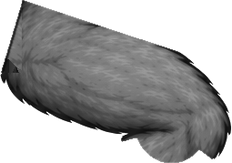
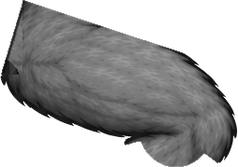
Beta: neue Figur – ganzes Bein je Stellung mit angeglichenen Längen
Oberschenkel gleichmässig auf eine Länge, Unterschenkel mit Fuss nur entlang des Schienbeins
gestaucht (Fuss bleibt gleich gross); Kniebeugung bei festem Fuss wieder stetig.

Claude-Session: https://claude.ai/code/session_01RzgDZiCUCCWMjrRSUqxzer

diff --git a/beta/sloth-rig.js b/beta/sloth-rig.js
@@ -18,7 +18,7 @@ const slothPartHref = (im) => (im.startsWith('v2') ? SLOTH_RIG2_BASE : SLOTH_RIG
 const SLOTH_PARTS = {"front_head":[510,53,696,293],"front_torso":[456,248,745,582],"front_uarm_l":[296,251,478,388],"front_uarm_r":[723,251,904,388],"front_farm_l":[51,288,294,400],"front_farm_r":[907,288,1150,400],"front_thigh_l":[439,516,582,697],"front_thigh_r":[629,516,773,697],"front_tail":[566,584,643,725],"front_calf_l":[444,678,569,866],"front_calf_r":[643,679,768,866],"back_head":[510,53,696,293],"back_torso":[455,247,745,622],"back_uarm_l":[300,251,478,388],"back_uarm_r":[723,251,900,388],"back_farm_l":[163,288,294,396],"back_farm_r":[906,288,1039,396],"back_elbow_l":[267,315,319,367],"back_elbow_r":[881,314,934,367],"back_grip_l":[195,606,314,813],"back_grip_r":[899,606,1018,813],"back_thigh_l":[439,567,571,697],"back_thigh_r":[641,562,773,697],"back_tail":[566,619,643,741],"back_calf_l":[444,678,569,866],"back_calf_r":[643,678,768,866],"pose_russian_a":[209,33,499,221],"pose_russian_b":[679,29,968,221],"pose_ninety":[339,246,498,434],"pose_frog_a":[252,454,543,618],"pose_frog_b":[697,485,1018,614],"pose_extrot_a":[405,634,537,875],"pose_extrot_b":[633,634,817,876],"eq_plate":[570,40,688,159],"eq_kettlebell":[870,40,962,159],"eq_dumbbell":[184,51,365,151],"eq_dhandle":[178,193,273,328],"eq_rope":[515,183,622,331],"eq_ring":[866,182,955,336],"eq_barend":[66,379,285,434],"eq_bench":[326,418,558,499],"eq_incline":[604,353,821,499],"eq_decline":[887,404,1118,499],"eq_cable":[92,506,252,840],"eq_dipstation":[436,631,630,840],"eq_rack":[890,553,1108,840],"eq_latpull":[68,33,226,248],"eq_legpress":[312,68,575,239],"eq_legext":[657,67,851,241],"eq_legcurl":[917,67,1143,241],"eq_butterfly":[69,324,232,543],"eq_abduction":[362,329,510,543],"eq_calfseated":[657,417,844,543],"eq_calfstanding":[931,326,1134,541],"eq_hyperext":[71,688,280,839],"eq_pullover":[465,604,649,840],"eq_tbar":[877,653,1112,840],"eq_abwheel":[181,58,443,250],"eq_jumprope":[776,42,989,261],"eq_ladder":[93,361,534,514],"eq_stepbox":[748,354,1035,538],"eq_band":[93,682,531,759],"eq_mat":[627,666,1152,759],"eq_stack":[303,516,390,652],"eq_calfframe":[499,491,711,666],"eq_calfpad":[807,531,920,627],"eq_dipbars":[292,735,461,819],"eq_nordic":[535,711,724,819],"eq_abductseat":[1008,654,1141,819],"eq_edge":[818,753,954,823],"front_face_neutral":[106,22,253,213],"front_face_effort":[106,22,251,213],"front_face_blink":[106,22,253,213],"front_face_yawn":[106,22,253,213],"side_face_neutral":[104,40,335,317],"side_face_effort":[103,40,334,317],"side_face_blink":[104,40,332,317],"side_torso":[458,53,699,568],"side_body":[458,220,692,568],"side_tail":[372,453,473,535],"side_uarm":[791,80,910,268],"side_uarm_far":[791,80,910,268],"side_elbow":[811,261,857,307],"side_elbow_far":[811,261,857,307],"side_farm":[770,320,959,400],"side_farm_far":[770,320,959,400],"side_hand":[990,449,1166,539],"side_hand_far":[990,449,1166,539],"side_thigh":[629,516,773,687],"side_thigh_far":[629,516,773,687],"side_knee":[721,652,768,700],"side_knee_far":[721,652,768,700],"side_calf":[1020,689,1180,854],"side_calf_far":[1020,689,1180,854],"side_shin":[1020,689,1122,793],"side_shin_far":[1020,689,1122,793],"side_fist":[59,109,404,284],"side_fist_far":[59,109,404,284],"side_foot":[152,622,370,804],"side_foot_far":[152,622,370,804],"side_flat":[624,706,893,825],"side_flat_far":[624,706,893,825]};
 /* PARTS:END */
 /* V2:BEGIN */
-const SLOTH_V2 = {"parts":{"v2front_torso":[149,183,351,481],"v2front_head":[173,15,331,198],"v2front_uarm_l":[86,206,200,366],"v2front_farm_l":[12,322,139,516],"v2front_farmfist_l":[16,322,138,468],"v2front_thigh_l":[142,400,251,584],"v2front_calf_l":[80,546,224,758],"v2front_uarm_r":[300,206,418,364],"v2front_farm_r":[365,322,497,516],"v2front_farmfist_r":[370,322,494,468],"v2front_thigh_r":[252,400,365,584],"v2front_calf_r":[284,546,428,758],"v2back_torso":[149,182,351,466],"v2back_head":[174,12,338,201],"v2back_uarm_l":[79,204,201,371],"v2back_farm_l":[30,326,142,440],"v2back_grip_l":[12,412,86,518],"v2back_thigh_l":[143,398,252,586],"v2back_calf_l":[78,546,224,753],"v2back_uarm_r":[300,204,429,367],"v2back_farm_r":[370,326,478,438],"v2back_grip_r":[426,412,499,518],"v2back_thigh_r":[250,397,370,585],"v2back_calf_r":[285,546,430,753],"v2hang_torso":[164,216,346,464],"v2hang_head":[196,120,317,263],"v2hang_uarm_l":[126,136,213,334],"v2hang_farm_l":[122,50,192,164],"v2hang_grip_l":[120,13,198,74],"v2hang_thigh_l":[152,400,261,581],"v2hang_calf_l":[136,540,235,754],"v2hang_uarm_r":[297,136,387,348],"v2hang_farm_r":[321,52,391,164],"v2hang_grip_r":[316,13,392,74],"v2hang_thigh_r":[250,400,360,582],"v2hang_calf_r":[277,540,376,754],"v2sit_torso":[153,184,361,403],"v2sit_head":[176,22,337,196],"v2sit_uarm_l":[78,215,181,389],"v2sit_farm_l":[49,352,150,539],"v2sit_thigh_l":[136,377,258,491],"v2sit_calf_l":[100,453,244,750],"v2sit_uarm_r":[330,216,435,389],"v2sit_farm_r":[362,352,464,539],"v2sit_thigh_r":[254,377,376,489],"v2sit_calf_r":[268,453,412,750],"v2side_torso":[30,238,263,592],"v2side_face":[92,11,254,191],"v2side_uarm":[157,180,325,270],"v2side_farm":[296,184,442,266],"v2side_hand":[422,190,496,238],"v2side_fist":[296,184,496,266],"v2side_flat":[422,190,496,238],"v2side_uarm_far":[157,180,325,270],"v2side_farm_far":[296,184,442,266],"v2side_hand_far":[422,190,496,238],"v2side_fist_far":[296,184,496,266],"v2side_flat_far":[422,190,496,238],"v2side_thigh":[86,498,222,701],"v2side_thigh_far":[86,498,222,701],"v2side_calf":[106,668,254,895],"v2side_calf_far":[106,668,254,895],"v2side_shin":[106,668,204,888],"v2side_shin_far":[106,668,204,888],"v2side_foot":[128,810,254,895],"v2side_foot_far":[128,810,254,895],"v2side_thighA":[399,534,585,721],"v2side_thighA_far":[399,534,585,721],"v2side_calfA":[424,656,578,895],"v2side_calfA_far":[424,656,578,895],"v2side_shinA":[424,656,578,884],"v2side_shinA_far":[424,656,578,884],"v2side_thighB":[693,567,925,730],"v2side_thighB_far":[693,567,925,730],"v2side_calfB":[744,665,908,896],"v2side_calfB_far":[744,665,908,896],"v2side_shinB":[744,665,908,872],"v2side_shinB_far":[744,665,908,872],"v2side_thighC":[1027,609,1307,748],"v2side_thighC_far":[1027,609,1307,748],"v2side_calfC":[1098,673,1289,896],"v2side_calfC_far":[1098,673,1289,896],"v2side_shinC":[1098,673,1289,876],"v2side_shinC_far":[1098,673,1289,876]},"joints":{"front":{"torso":[[250.0,445.0],[250.0,185.0]],"head":[[250.0,185.0],[250.0,20.0]],"farm_l":[[102.5,345.0],[40.0,495.0]],"uarm_l":[[165.0,240.0],[102.5,345.0]],"thigh_l":[[210.0,445.0],[180.0,575.0]],"calf_l":[[180.0,575.0],[155.0,695.0]],"farm_r":[[397.5,345.0],[462.5,495.0]],"uarm_r":[[335.0,240.0],[397.5,345.0]],"thigh_r":[[290.0,445.0],[320.0,575.0]],"calf_r":[[320.0,575.0],[345.0,695.0]]},"back":{"torso":[[250.0,445.0],[250.0,190.0]],"head":[[250.0,190.0],[250.0,15.0]],"grip_l":[[57.5,430.0],[42.5,500.0]],"farm_l":[[102.5,350.0],[57.5,430.0]],"uarm_l":[[165.0,240.0],[102.5,350.0]],"thigh_l":[[210.0,445.0],[180.0,575.0]],"calf_l":[[180.0,575.0],[155.0,695.0]],"grip_r":[[445.0,430.0],[465.0,500.0]],"farm_r":[[400.0,350.0],[445.0,430.0]],"uarm_r":[[335.0,240.0],[400.0,350.0]],"thigh_r":[[290.0,445.0],[325.0,575.0]],"calf_r":[[325.0,575.0],[350.0,695.0]]},"hang":{"torso":[[255.0,465.0],[255.0,235.0]],"head":[[255.0,235.0],[255.0,120.0]],"grip_l":[[152.5,55.0],[157.5,25.0]],"farm_l":[[150.0,140.0],[152.5,55.0]],"uarm_l":[[177.5,255.0],[150.0,140.0]],"thigh_l":[[222.5,465.0],[187.5,570.0]],"calf_l":[[187.5,570.0],[172.5,700.0]],"grip_r":[[355.0,55.0],[352.5,25.0]],"farm_r":[[357.5,140.0],[355.0,55.0]],"uarm_r":[[332.5,255.0],[357.5,140.0]],"thigh_r":[[287.5,465.0],[322.5,570.0]],"calf_r":[[322.5,570.0],[340.0,700.0]]},"sit":{"torso":[[255.0,415.0],[255.0,190.0]],"head":[[255.0,190.0],[255.0,25.0]],"farm_l":[[105.0,375.0],[75.0,525.0]],"uarm_l":[[145.0,257.5],[105.0,375.0]],"thigh_l":[[190.0,415.0],[192.5,482.5]],"calf_l":[[192.5,482.5],[169.0,660.0]],"farm_r":[[405.0,375.0],[435.0,525.0]],"uarm_r":[[365.0,257.5],[405.0,375.0]],"thigh_r":[[320.0,415.0],[320.0,482.5]],"calf_r":[[320.0,482.5],[340.0,660.0]]},"side":{"torso":[[159.2,546.0],[163.8,327.6]],"face":[[200.0,170.0],[165.0,30.0]],"flex":{"thigh":4.9,"thighA":51.0,"thighB":82.6,"thighC":100.2},"kneeBend":{"thigh":7.6,"thighA":69.5,"thighB":103.1,"thighC":125.3},"thighA":[[427.7,582.4],[532.4,684.3]],"calfA":[[532.4,684.3],[473.2,819.0]],"shinA":[[532.4,684.3],[473.2,819.0]],"thighB":[[737.1,637.0],[864.5,693.4]],"calfB":[[864.5,693.4],[773.5,814.5]],"shinB":[[864.5,693.4],[773.5,814.5]],"thighC":[[1121.1,671.6],[1260.4,700.7]],"calfC":[[1260.4,700.7],[1133.0,819.0]],"shinC":[[1260.4,700.7],[1133.0,819.0]],"uarm":[[200.0,222.5],[320.0,225.0]],"farm":[[320.0,225.0],[440.0,212.5]],"fist":[[320.0,225.0],[440.0,212.5]],"hand":[[440.0,212.5],[492.5,215.0]],"flat":[[440.0,212.5],[492.5,215.0]],"thigh":[[154.7,556.9],[163.8,696.1]],"calf":[[163.8,696.1],[154.7,832.6]],"shin":[[163.8,696.1],[154.7,832.6]],"foot":[[154.7,832.6],[243.9,875.4]]}},"anchors":{"front":{"neck":[250.0,185.0],"sh_l":[165.0,240.0],"sh_r":[335.0,240.0],"hip_l":[210.0,445.0],"hip_r":[290.0,445.0],"tail":[250.0,445.0]},"back":{"neck":[250.0,190.0],"sh_l":[165.0,240.0],"sh_r":[335.0,240.0],"hip_l":[210.0,445.0],"hip_r":[290.0,445.0],"tail":[250.0,445.0]},"hang":{"neck":[255.0,235.0],"sh_l":[177.5,255.0],"sh_r":[332.5,255.0],"hip_l":[222.5,465.0],"hip_r":[287.5,465.0],"tail":[255.0,465.0]},"sit":{"neck":[255.0,190.0],"sh_l":[145.0,257.5],"sh_r":[365.0,257.5],"hip_l":[190.0,415.0],"hip_r":[320.0,415.0],"tail":[255.0,415.0]},"side":{"shoulder":[163.8,327.6],"hip":[159.2,546.0],"tail":[54.6,591.5],"face":[186.6,265.7]}}};
+const SLOTH_V2 = {"parts":{"v2front_torso":[149,183,351,481],"v2front_head":[173,15,331,198],"v2front_uarm_l":[86,206,200,366],"v2front_farm_l":[12,322,139,516],"v2front_farmfist_l":[16,322,138,468],"v2front_thigh_l":[142,400,251,584],"v2front_calf_l":[80,546,224,758],"v2front_uarm_r":[300,206,418,364],"v2front_farm_r":[365,322,497,516],"v2front_farmfist_r":[370,322,494,468],"v2front_thigh_r":[252,400,365,584],"v2front_calf_r":[284,546,428,758],"v2back_torso":[149,182,351,466],"v2back_head":[174,12,338,201],"v2back_uarm_l":[79,204,201,371],"v2back_farm_l":[30,326,142,440],"v2back_grip_l":[12,412,86,518],"v2back_thigh_l":[143,398,252,586],"v2back_calf_l":[78,546,224,753],"v2back_uarm_r":[300,204,429,367],"v2back_farm_r":[370,326,478,438],"v2back_grip_r":[426,412,499,518],"v2back_thigh_r":[250,397,370,585],"v2back_calf_r":[285,546,430,753],"v2hang_torso":[164,216,346,464],"v2hang_head":[196,120,317,263],"v2hang_uarm_l":[126,136,213,334],"v2hang_farm_l":[122,50,192,164],"v2hang_grip_l":[120,13,198,74],"v2hang_thigh_l":[152,400,261,581],"v2hang_calf_l":[136,540,235,754],"v2hang_uarm_r":[297,136,387,348],"v2hang_farm_r":[321,52,391,164],"v2hang_grip_r":[316,13,392,74],"v2hang_thigh_r":[250,400,360,582],"v2hang_calf_r":[277,540,376,754],"v2sit_torso":[153,184,361,403],"v2sit_head":[176,22,337,196],"v2sit_uarm_l":[78,215,181,389],"v2sit_farm_l":[49,352,150,539],"v2sit_thigh_l":[136,377,258,491],"v2sit_calf_l":[100,453,244,750],"v2sit_uarm_r":[330,216,435,389],"v2sit_farm_r":[362,352,464,539],"v2sit_thigh_r":[254,377,376,489],"v2sit_calf_r":[268,453,412,750],"v2side_torso":[30,238,263,592],"v2side_face":[92,11,254,191],"v2side_uarm":[157,180,325,270],"v2side_farm":[296,184,442,266],"v2side_hand":[422,190,496,238],"v2side_fist":[296,184,496,266],"v2side_flat":[422,190,496,238],"v2side_uarm_far":[157,180,325,270],"v2side_farm_far":[296,184,442,266],"v2side_hand_far":[422,190,496,238],"v2side_fist_far":[296,184,496,266],"v2side_flat_far":[422,190,496,238],"v2side_thigh":[89,510,229,718],"v2side_thigh_far":[89,510,229,718],"v2side_calf":[106,668,254,895],"v2side_calf_far":[106,668,254,895],"v2side_shin":[106,668,204,888],"v2side_shin_far":[106,668,204,888],"v2side_foot":[128,810,254,895],"v2side_foot_far":[128,810,254,895],"v2side_thighA":[390,522,572,704],"v2side_thighA_far":[390,522,572,704],"v2side_calfA":[424,656,578,895],"v2side_calfA_far":[424,656,578,895],"v2side_shinA":[424,656,578,884],"v2side_shinA_far":[424,656,578,884],"v2side_thighB":[711,581,949,748],"v2side_thighB_far":[711,581,949,748],"v2side_calfB":[744,665,908,896],"v2side_calfB_far":[744,665,908,896],"v2side_shinB":[744,665,908,872],"v2side_shinB_far":[744,665,908,872],"v2side_thighC":[1032,611,1314,751],"v2side_thighC_far":[1032,611,1314,751],"v2side_calfC":[1098,673,1289,896],"v2side_calfC_far":[1098,673,1289,896],"v2side_shinC":[1098,673,1289,876],"v2side_shinC_far":[1098,673,1289,876]},"joints":{"front":{"torso":[[250.0,445.0],[250.0,185.0]],"head":[[250.0,185.0],[250.0,20.0]],"farm_l":[[102.5,345.0],[40.0,495.0]],"uarm_l":[[165.0,240.0],[102.5,345.0]],"thigh_l":[[210.0,445.0],[180.0,575.0]],"calf_l":[[180.0,575.0],[155.0,695.0]],"farm_r":[[397.5,345.0],[462.5,495.0]],"uarm_r":[[335.0,240.0],[397.5,345.0]],"thigh_r":[[290.0,445.0],[320.0,575.0]],"calf_r":[[320.0,575.0],[345.0,695.0]]},"back":{"torso":[[250.0,445.0],[250.0,190.0]],"head":[[250.0,190.0],[250.0,15.0]],"grip_l":[[57.5,430.0],[42.5,500.0]],"farm_l":[[102.5,350.0],[57.5,430.0]],"uarm_l":[[165.0,240.0],[102.5,350.0]],"thigh_l":[[210.0,445.0],[180.0,575.0]],"calf_l":[[180.0,575.0],[155.0,695.0]],"grip_r":[[445.0,430.0],[465.0,500.0]],"farm_r":[[400.0,350.0],[445.0,430.0]],"uarm_r":[[335.0,240.0],[400.0,350.0]],"thigh_r":[[290.0,445.0],[325.0,575.0]],"calf_r":[[325.0,575.0],[350.0,695.0]]},"hang":{"torso":[[255.0,465.0],[255.0,235.0]],"head":[[255.0,235.0],[255.0,120.0]],"grip_l":[[152.5,55.0],[157.5,25.0]],"farm_l":[[150.0,140.0],[152.5,55.0]],"uarm_l":[[177.5,255.0],[150.0,140.0]],"thigh_l":[[222.5,465.0],[187.5,570.0]],"calf_l":[[187.5,570.0],[172.5,700.0]],"grip_r":[[355.0,55.0],[352.5,25.0]],"farm_r":[[357.5,140.0],[355.0,55.0]],"uarm_r":[[332.5,255.0],[357.5,140.0]],"thigh_r":[[287.5,465.0],[322.5,570.0]],"calf_r":[[322.5,570.0],[340.0,700.0]]},"sit":{"torso":[[255.0,415.0],[255.0,190.0]],"head":[[255.0,190.0],[255.0,25.0]],"farm_l":[[105.0,375.0],[75.0,525.0]],"uarm_l":[[145.0,257.5],[105.0,375.0]],"thigh_l":[[190.0,415.0],[192.5,482.5]],"calf_l":[[192.5,482.5],[169.0,660.0]],"farm_r":[[405.0,375.0],[435.0,525.0]],"uarm_r":[[365.0,257.5],[405.0,375.0]],"thigh_r":[[320.0,415.0],[320.0,482.5]],"calf_r":[[320.0,482.5],[340.0,660.0]]},"side":{"torso":[[159.2,546.0],[163.8,327.6]],"face":[[200.0,170.0],[165.0,30.0]],"flex":{"thigh":4.9,"thighA":51.0,"thighB":82.6,"thighC":100.2},"kneeBend":{"thigh":7.6,"thighA":69.5,"thighB":103.1,"thighC":125.3},"thighA":[[418.3,569.6],[520.7,669.3]],"calfA":[[532.4,684.3],[473.2,819.0]],"calfKA":0.971,"shinA":[[532.4,684.3],[473.2,819.0]],"thighB":[[755.8,653.2],[886.4,711.0]],"calfB":[[864.5,693.4],[773.5,814.5]],"calfKB":0.944,"shinB":[[864.5,693.4],[773.5,814.5]],"thighC":[[1126.1,674.5],[1265.9,703.8]],"calfC":[[1260.4,700.7],[1133.0,819.0]],"calfKC":0.822,"shinC":[[1260.4,700.7],[1133.0,819.0]],"uarm":[[200.0,222.5],[320.0,225.0]],"farm":[[320.0,225.0],[440.0,212.5]],"fist":[[320.0,225.0],[440.0,212.5]],"hand":[[440.0,212.5],[492.5,215.0]],"flat":[[440.0,212.5],[492.5,215.0]],"thigh":[[158.4,570.3],[167.7,712.8]],"calf":[[163.8,696.1],[154.7,832.6]],"calfK":1.044,"shin":[[163.8,696.1],[154.7,832.6]],"foot":[[154.7,832.6],[243.9,875.4]]}},"anchors":{"front":{"neck":[250.0,185.0],"sh_l":[165.0,240.0],"sh_r":[335.0,240.0],"hip_l":[210.0,445.0],"hip_r":[290.0,445.0],"tail":[250.0,445.0]},"back":{"neck":[250.0,190.0],"sh_l":[165.0,240.0],"sh_r":[335.0,240.0],"hip_l":[210.0,445.0],"hip_r":[290.0,445.0],"tail":[250.0,445.0]},"hang":{"neck":[255.0,235.0],"sh_l":[177.5,255.0],"sh_r":[332.5,255.0],"hip_l":[222.5,465.0],"hip_r":[287.5,465.0],"tail":[255.0,465.0]},"sit":{"neck":[255.0,190.0],"sh_l":[145.0,257.5],"sh_r":[365.0,257.5],"hip_l":[190.0,415.0],"hip_r":[320.0,415.0],"tail":[255.0,415.0]},"side":{"shoulder":[163.8,327.6],"hip":[159.2,546.0],"tail":[54.6,591.5],"face":[186.6,265.7]}}};
 /* V2:END */
 
 // Gelenkpunkte in Vorlagen-Koordinaten (1200 x 896): [nah, fern]
@@ -955,13 +955,15 @@ function slothRigBuild(pose, v2 = false) {
         const o = op[i + 1] >= 1 ? 0 : op[i], sfx = k.slice(5); // '' | 'A' | 'B' | 'C'
         // ganzes Bein je Stellung, wie gezeichnet: Oberschenkel + Unterschenkel mit Fuss aus derselben Figur.
         // Fuss am Boden: Knie gebeugt wie in DIESER Zeichnung (relativ zu ihrem eigenen Oberschenkel)
-        const kd = planted && J.kneeBend ? deg + J.kneeBend[k] : cDeg;
+        const kd = cDeg; // Fuss am Boden: Kniebeugung stetig nach Hüftbeugung (siehe oben), Fuss bleibt flach
         // Unterschenkel mit Fuss nicht überblenden (sonst zwei Füsse), sondern in der Mitte des Übergangs wechseln
         const oc = op[i] >= 0.5 && !(op[i + 1] >= 0.5) ? 1 : 0;
-        if (!sfx) { th.o = o; if (!pose.feet && cDeg != null) q['calf' + x] = { ...place('calf', th.end, kd, 'side_calf' + x), o: oc, step: true }; return; }
+        // Unterschenkel auf gleiche Länge: nur entlang des Schienbeins stauchen (Fuss bleibt gleich gross)
+        const ck = (e) => { const r = J['calfK' + sfx] ?? 1; return { ...e, k: [e.k * r, e.k], end: add(e.P, mul(sub(e.end, e.P), r)) }; };
+        if (!sfx) { th.o = o; if (!pose.feet && cDeg != null) q['calf' + x] = { ...ck(place('calf', th.end, kd, 'side_calf' + x)), o: oc, step: true }; return; }
         const t2 = { ...place(k, th.P, deg, 'side_' + k + x), o };
         q[k + x] = t2;
-        if (!pose.feet && cDeg != null) q['calf' + sfx + x] = { ...place('calf' + sfx, t2.end, kd, 'side_calf' + sfx + x), o: oc, step: true };
+        if (!pose.feet && cDeg != null) q['calf' + sfx + x] = { ...ck(place('calf' + sfx, t2.end, kd, 'side_calf' + sfx + x)), o: oc, step: true };
       });
       // fester Punkt (Knöchel) = Knöchel der gerade sichtbaren Zeichnung, sonst rutscht der Fuss
       if (!pose.feet) {

diff --git a/beta/sw.js b/beta/sw.js
@@ -1,4 +1,4 @@
-const CACHE_NAME = 'pincho-beta-v75';
+const CACHE_NAME = 'pincho-beta-v76';
 const SHELL_ASSETS = [
   './', './index.html', './styles.css', './data.js', './firebase.js', './sloth-rig.js', './app.js',
   './manifest.json', '../assets/icon-512-any.png', '../assets/icon-192-any.png', '../assets/icon-512-transparent.png', '../assets/icon-512-maskable.png', '../assets/icon-beta-192-any.png', '../assets/icon-beta-512-maskable.png',

diff --git a/tools/sloth-rig/build_v2.py b/tools/sloth-rig/build_v2.py
@@ -391,10 +391,13 @@ def side_leg(parts, cfg, sfx=''):
             x0, y0 = round(bb[0] * f), round(bb[1] * f)
             parts[f'v2side_{key}{far}'] = [x0, y0, x0 + img.width, y0 + img.height]
         return lambda q: [round(q[0] * f, 1), round(q[1] * f, 1)]
-    fT = fC = S * SQ  # Massstab wie gezeichnet (alle Figuren im Blatt sind gleich gross)
+    # Längen angleichen: die Figuren im Blatt sind nicht exakt gleich lang gezeichnet (Wade bis 25 % länger).
+    # Oberschenkel: gleichmässig skaliert. Unterschenkel mit Fuss: Bild in Zeichnungsgrösse (Fuss bleibt gleich gross),
+    # die Puppe staucht ihn nur entlang des Schienbeins (calfK)
+    fT, fC = S * SQ * LEG_T / lt, S * SQ
     sT = cut('thigh' + sfx, Mth, fT)
     sC = cut('calf' + sfx, Mca | Mfo, fC, 'kn', 30)
-    out = {'thigh' + sfx: [sT(cfg['hip']), sT(cfg['kn'])], 'calf' + sfx: [sC(cfg['kn']), sC(cfg['an'])]}
+    out = {'thigh' + sfx: [sT(cfg['hip']), sT(cfg['kn'])], 'calf' + sfx: [sC(cfg['kn']), sC(cfg['an'])], 'calfK' + sfx: round(LEG_C / lc, 3)}
     # Unterschenkel ohne Fuss: die Puppe nimmt für alle Stellungen denselben Fuss (aus der stehenden Figur)
     sS = cut('shin' + sfx, Mca, fC, 'kn', 30)
     out['shin' + sfx] = [sS(cfg['kn']), sS(cfg['an'])]
